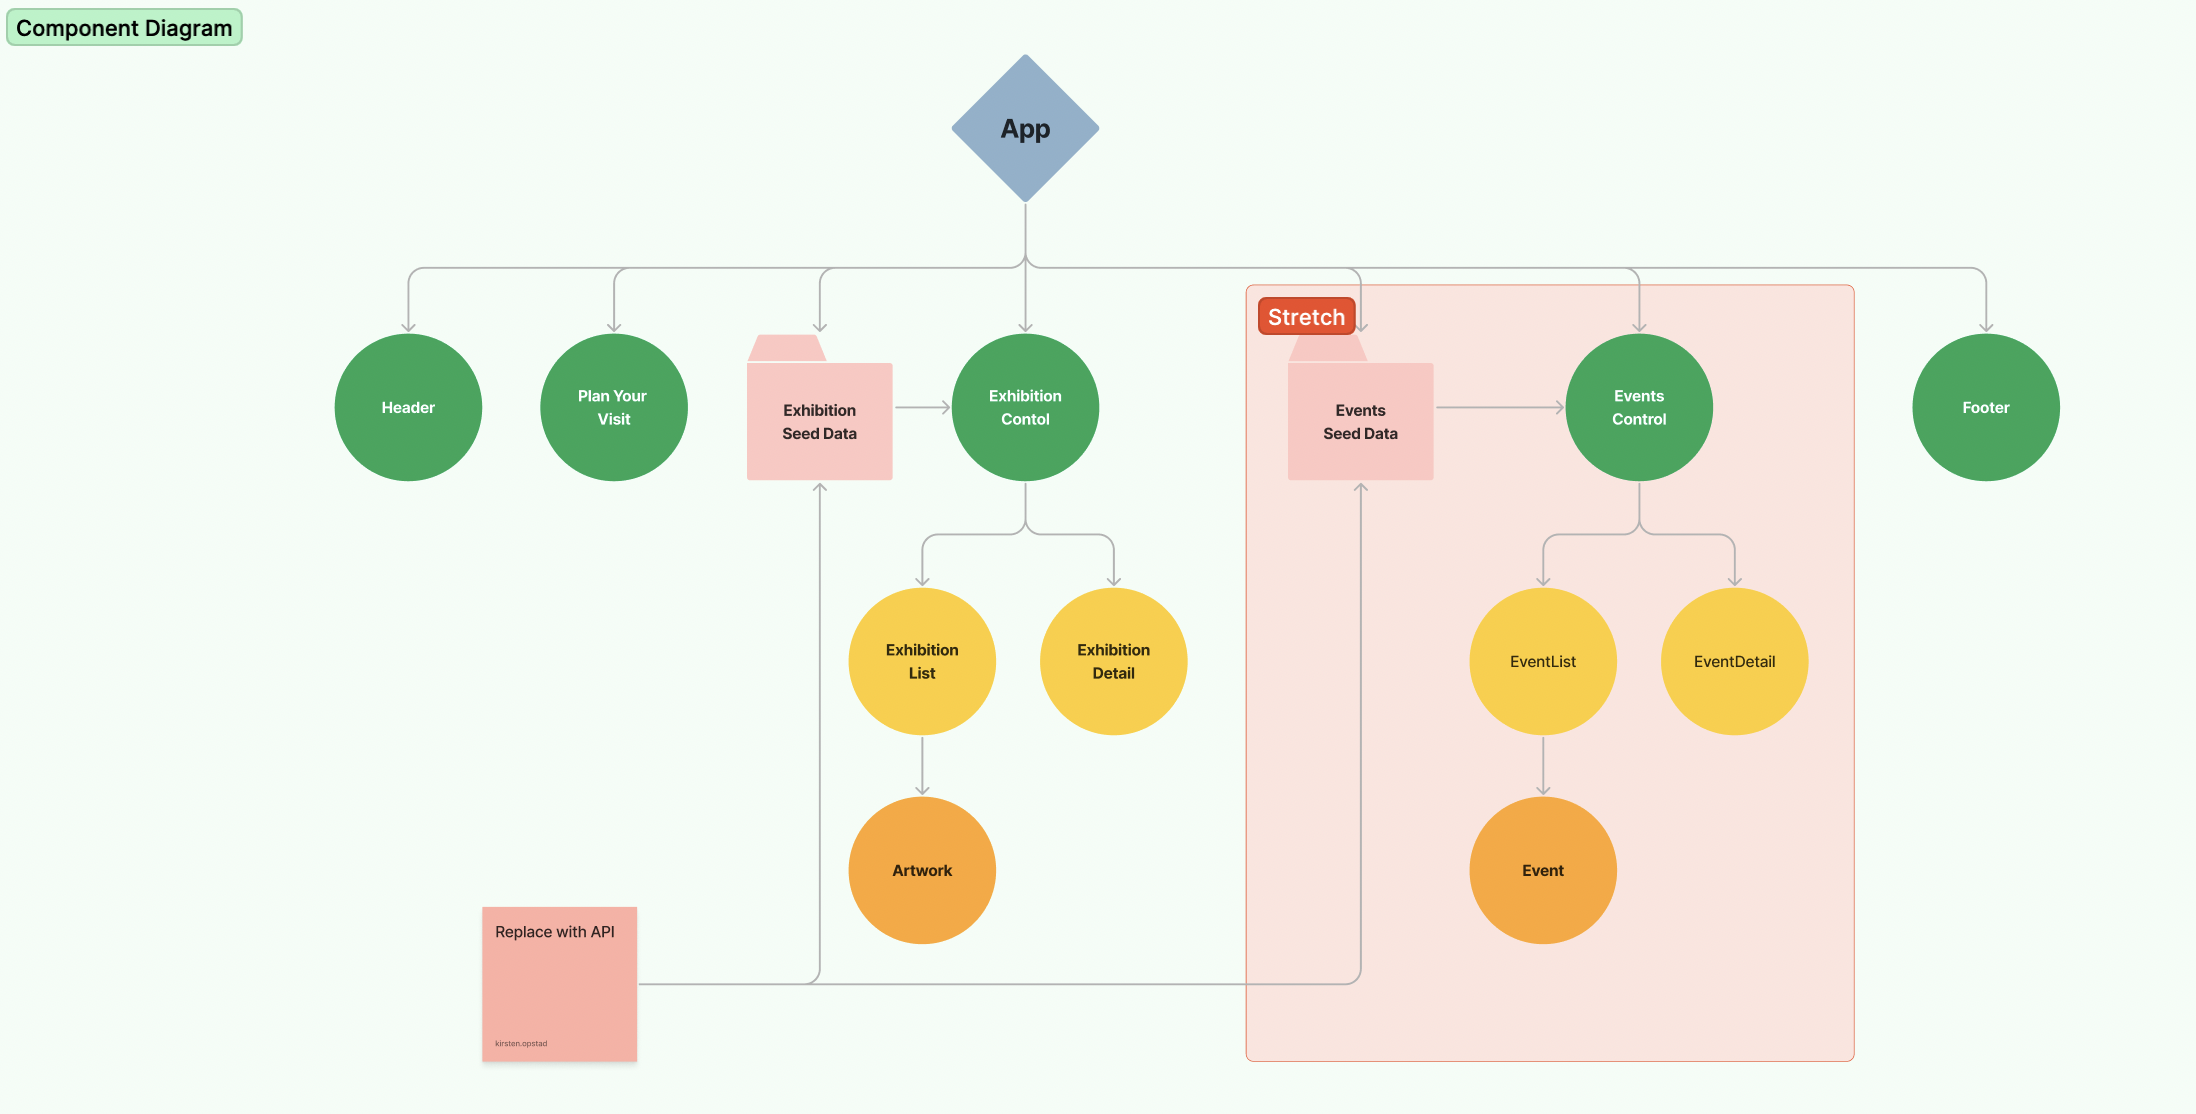
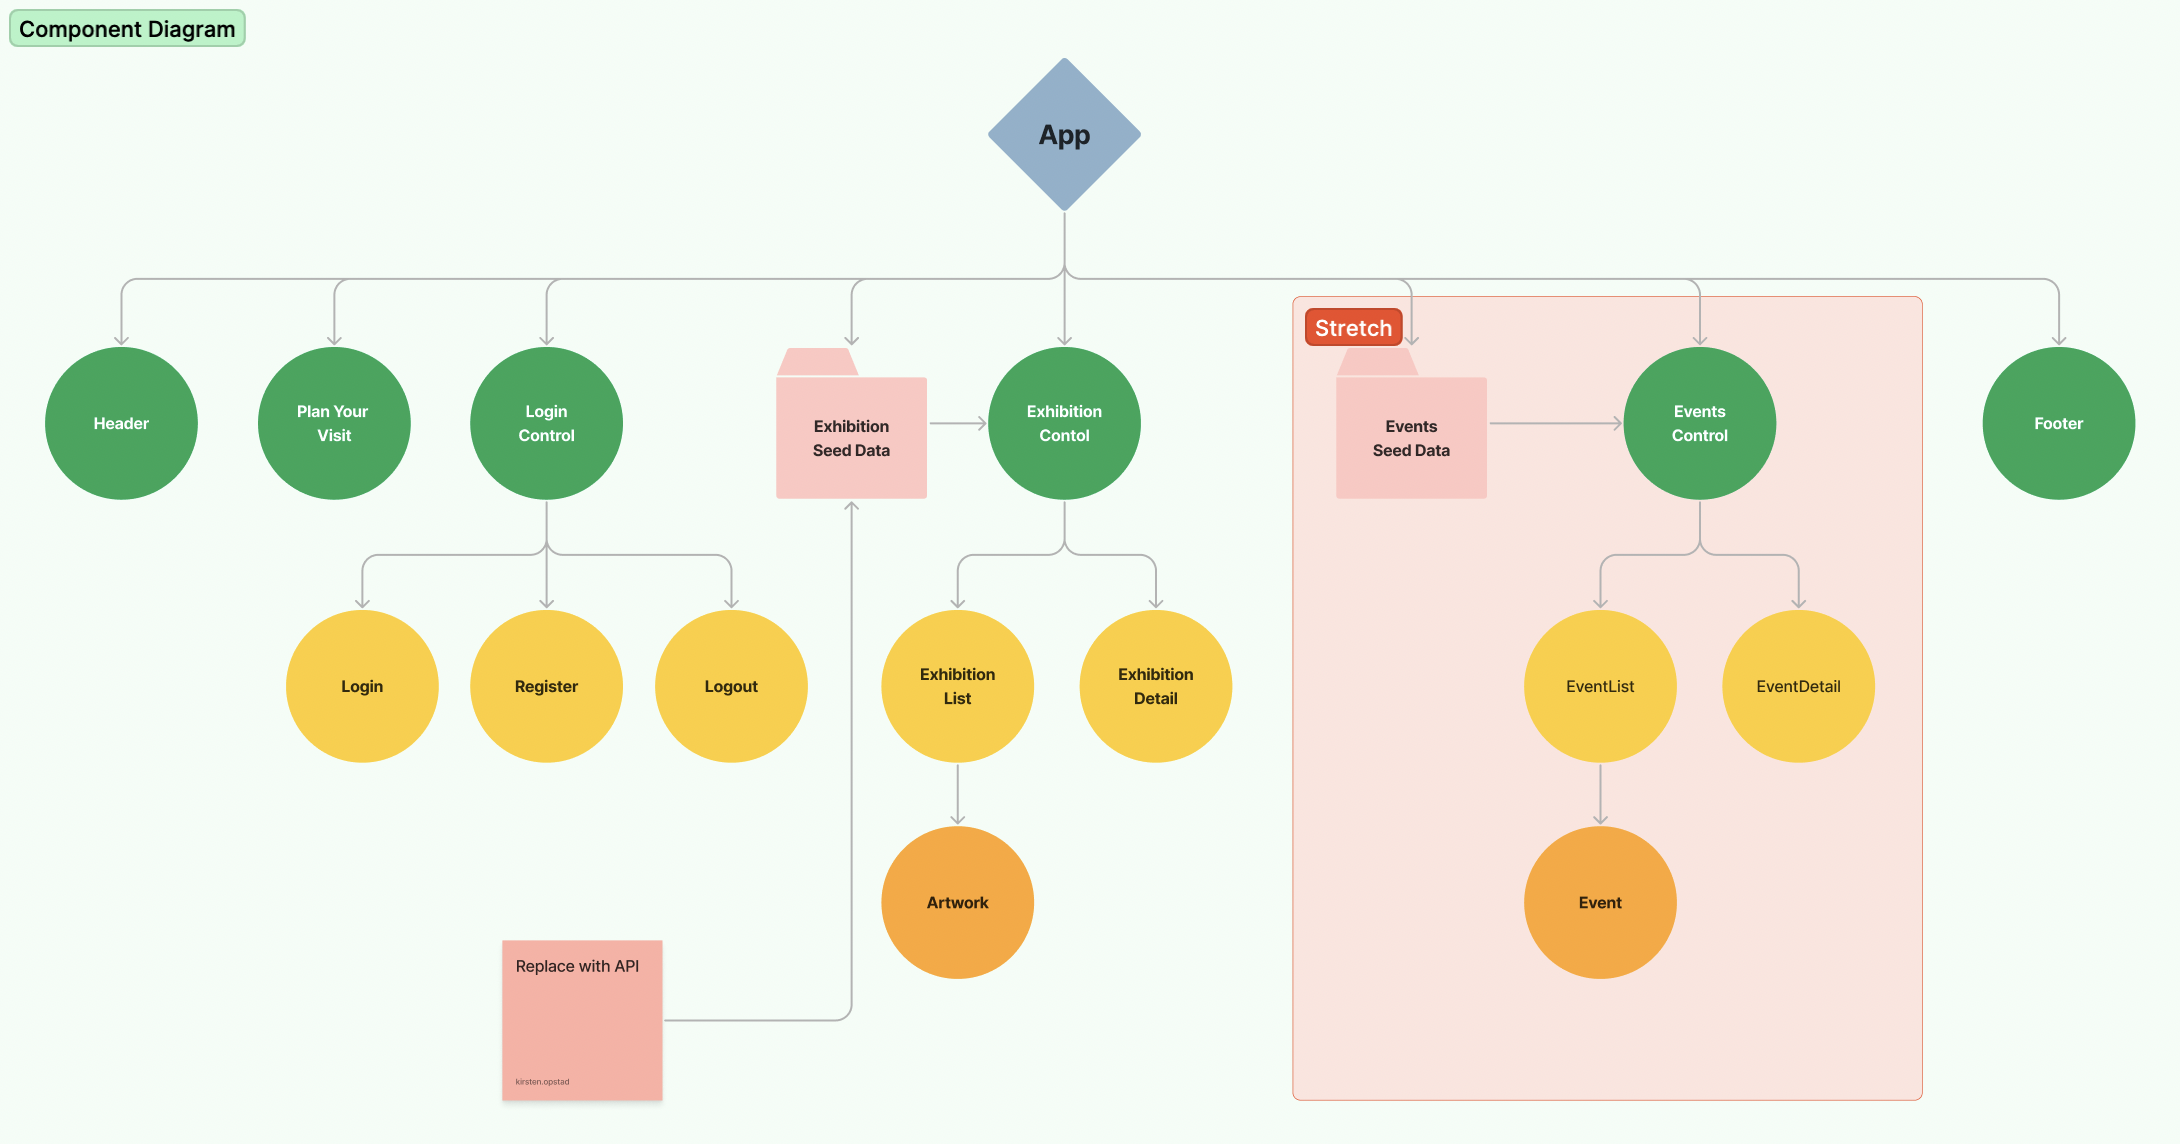
update component diagram and wireframe

diff --git a/src/firebase.js b/src/firebase.js
@@ -2,6 +2,8 @@
 import { initializeApp } from "firebase/app";
 import { getAnalytics } from "firebase/analytics";
 import { getFirestore } from 'firebase/firestore';
+import { getAuth } from "firebase/auth";
+
 
 // TODO: Add SDKs for Firebase products that you want to use
 // https://firebase.google.com/docs/web/setup#available-libraries
@@ -18,12 +20,15 @@ const firebaseConfig = {
   measurementId: process.env.REACT_APP_FIREBASE_MEASUREMENT_ID
 };
 
-// Initialize Firebase
+// Initialize Firebase app instance
 const app = initializeApp(firebaseConfig);
 
-// Get database
+// Get authorization instance
+const auth = getAuth(app);
+
+// Get database instance associated with our app
 const db = getFirestore(app);
 
 const analytics = getAnalytics(app);
 
-export { db };
+export { db, auth };

diff --git a/README.md b/README.md
@@ -137,6 +137,7 @@ __User stories:__
 |2/24|4:51p| Add user comment & store in firebase |
 |2/24|10:45a| Update roadmap & tagline in README |
 |2/24|11:43a| Add user upVote & downVote title functionality |
+|2/24|2:40p| Update component diagram and wireframe for authentication |
 <!-- |date|time|data13| -->
 ### Hour Totals
 |Date |Hours  | Note|
